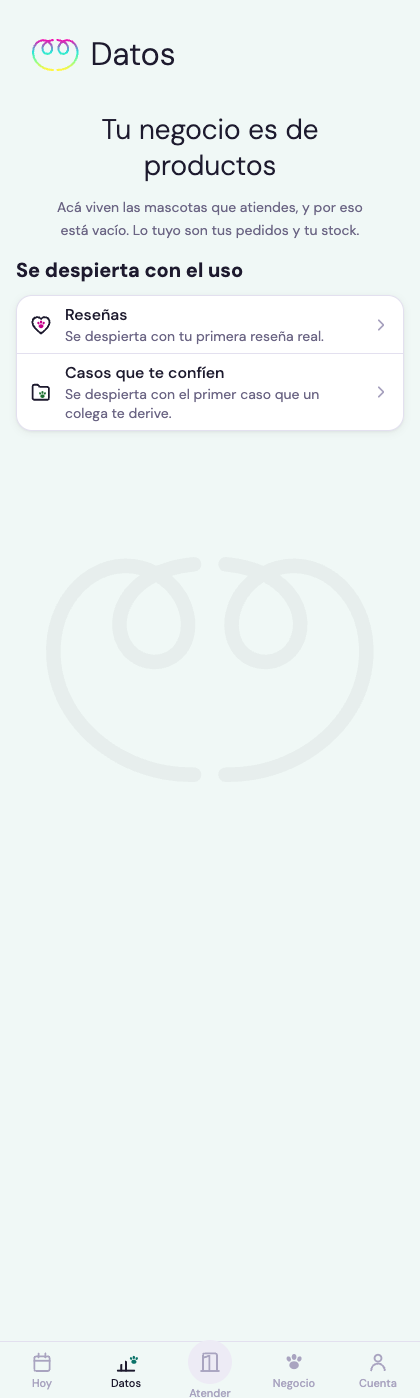
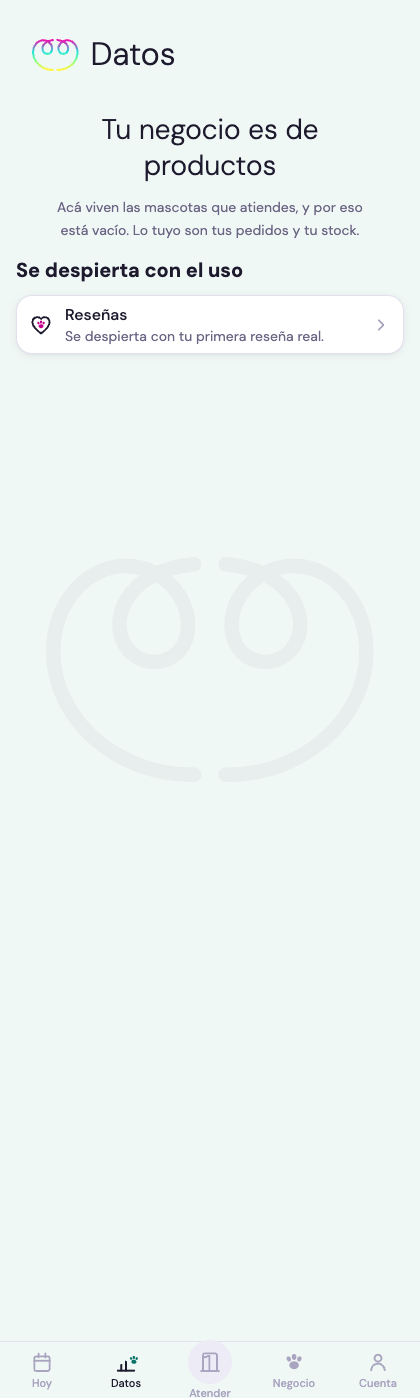
feat(s99-c): «Casos que te confien» fuera para el vendedor puro + el OTA leido del objeto, y los dos bloqueos declarados
③ APLICADA Y CAMINADA (web, duenodes): DATOS queda con «Resenas» y nada mas.
El criterio de mesa aplicado ENTERO —un vacio que puede llenarse es honesto,
uno que no puede llenarse nunca es mentira— y por eso la vecina se QUEDA, con
razon medida y no supuesta: resenas_productos existe (11 columnas), asi que
una resena de producto SI puede llegar. Lo que decide no es «este cuarto es de
servicios»: es si el vacio tiene futuro. typecheck verde · verify:diseno VERDE 37.
⚠ NO viaja en el OTA publicado: entra en el proximo.

🔴 ① y ② BLOQUEADOS: el aparato volvio a estar BLOQUEADO (mDreamingLockscreen
true) y la llave del keychain sigue sin ser el PIN — freno 1 nunca se curo. La
caminata en aparato y el DESPUES de tiempos NO corrieron y no se sustituyen por
nada: un despues medido en otro lado no es un despues, es otro numero.

Y el OTA leido del OBJETO con update:view (jamas del mensaje): group f690bdc0 ·
android 01a00717 · ancla 7e6dc899 · dirty None. Que el ancla sea EXACTAMENTE el
arbol que camine en web es lo que vuelve mi caminata y el aparato el mismo
codigo — lo que falta no es saber si funciona, es verlo en el telefono.

diff --git a/apps/prestador/src/app/(tabs)/mascotas.tsx b/apps/prestador/src/app/(tabs)/mascotas.tsx
@@ -754,15 +754,34 @@ export default function Mascotas() {
                 detalle={t('mascotas.resenasDetalle')}
                 onPress={() => router.push('/negocio/resenas')}
               />
-              <Separador />
-              {/* Glifo 'caso' — propio del registry, no stand-in. */}
-              <CeldaNavegacion
-                icono="caso"
-                registro="aa"
-                titulo={t('mascotas.casosHeredados')}
-                detalle={t('mascotas.casosHeredadosDetalle')}
-                onPress={() => router.push('/negocio/casos-heredados')}
-              />
+              {/* ⭐ S99-C · «CASOS QUE TE CONFÍEN» NO SE LE MUESTRA AL
+                  VENDEDOR PURO (adjudicación de mesa). Y el criterio no es
+                  de spec fina, es de la casa:
+
+                  **un estado vacío que PUEDE llenarse es honesto; uno que
+                  no puede llenarse NUNCA es una mentira.**
+
+                  A un negocio de productos **nadie le va a derivar un caso
+                  clínico jamás** — la celda prometía un futuro inexistente.
+
+                  🔴 Y LA VECINA SE QUEDA, con su razón MEDIDA y no supuesta:
+                  «Reseñas» **sí puede llenarse** — `resenas_productos` existe
+                  en el esquema (verificado: 11 columnas). *El mismo criterio
+                  que saca una deja la otra: lo que decide no es «este cuarto
+                  es de servicios», es si el vacío tiene futuro.* */}
+              {pantalla.estado !== 'sinPrestador' && (
+                <>
+                  <Separador />
+                  {/* Glifo 'caso' — propio del registry, no stand-in. */}
+                  <CeldaNavegacion
+                    icono="caso"
+                    registro="aa"
+                    titulo={t('mascotas.casosHeredados')}
+                    detalle={t('mascotas.casosHeredadosDetalle')}
+                    onPress={() => router.push('/negocio/casos-heredados')}
+                  />
+                </>
+              )}
             </Tarjeta>
           </View>
         )}

diff --git a/docs/loop/S99-C.md b/docs/loop/S99-C.md
@@ -932,6 +932,50 @@ Lo caminable se caminó: **regresión verificada en el camino normal** —con
 `duenovet`, `ATENDER` y `DATOS` siguen pintando como siempre, cero errores
 (`01-atender.png` · `02-datos.png`).
 
+### ✅ ③ «CASOS QUE TE CONFÍEN» FUERA PARA EL VENDEDOR PURO — aplicada y caminada
+
+Adjudicación de mesa, con su criterio: **un estado vacío que PUEDE llenarse
+es honesto; uno que no puede llenarse NUNCA es una mentira.** A un negocio de
+productos **nadie le deriva un caso clínico jamás**.
+
+**🔴 Y la vecina SE QUEDA, con la razón MEDIDA y no supuesta:** «Reseñas»
+**sí puede llenarse** — `resenas_productos` existe en el esquema (verificado:
+11 columnas). *El mismo criterio que saca una deja la otra: lo que decide no
+es «este cuarto es de servicios», es si el vacío tiene futuro.*
+
+Caminado en web con `duenodes`: `DATOS` queda con **«Reseñas» y nada más**
+(`02-datos.png`). typecheck VERDE · `verify:diseno` **VERDE 37**.
+
+⚠ **NO viaja en el OTA publicado** — entra en el próximo. El founder lo va a
+ver **sin** este cambio si la pasada corre sobre `f690bdc0`.
+
+### 🔴 ① Y ② BLOQUEADOS — EL APARATO VOLVIÓ A ESTAR CERRADO
+
+**El OTA está publicado y leído del OBJETO** (`update:view`, no del mensaje):
+
+| | |
+|---|---|
+| group | **`f690bdc0-46a8-4f97-8653-82ddbb1df2b7`** |
+| android updateId | `01a00717-74bc-7a5f-8fd7-439f6b65bdd8` |
+| **ancla** | **`7e6dc899…`** — *el MISMO sha que caminé en web* |
+| dirty | **None** (limpio, sin asterisco) · runtime 1.0.5 · canal `preview` |
+
+> **Que el ancla del bundle publicado sea exactamente el árbol que caminé no
+> es un detalle: es lo que hace que mi caminata web y el aparato sean el
+> mismo código.** Lo que falta no es saber si funciona — es verlo en el
+> teléfono, que es lo que §6bis-B pide y lo que yo no puedo hacer.
+
+**Medido al intentar: `mDreamingLockscreen=true` — el teléfono está bloqueado
+otra vez.** La llave del keychain sigue sin ser el PIN (**freno 1, nunca
+curado**). ⇒ **la caminata en aparato y el DESPUÉS de tiempos no corrieron, y
+no se sustituyen por nada.** *Un «después» de tiempos medido en otro lado no
+es un después: es otro número.*
+
+**Lo que los destraba es un acto de una línea del founder** — desbloquear y
+dejar el teléfono despierto al cable. Con eso, los dos corren juntos en ~20
+minutos con el método ya escrito, y el par ANTES/DESPUÉS queda cerrado
+(`ANTES` = OTA de S98 `01a00373` · `DESPUÉS` = `01a00717`, ancla `7e6dc899`).
+
 ### 🔍 LO QUE EL FOUNDER MIRA DE LA PIEZA EN EL GATE — la pregunta, no la descripción
 
 *Un ojo con una pregunta ve algo; un ojo con una sensación aprueba cualquier
